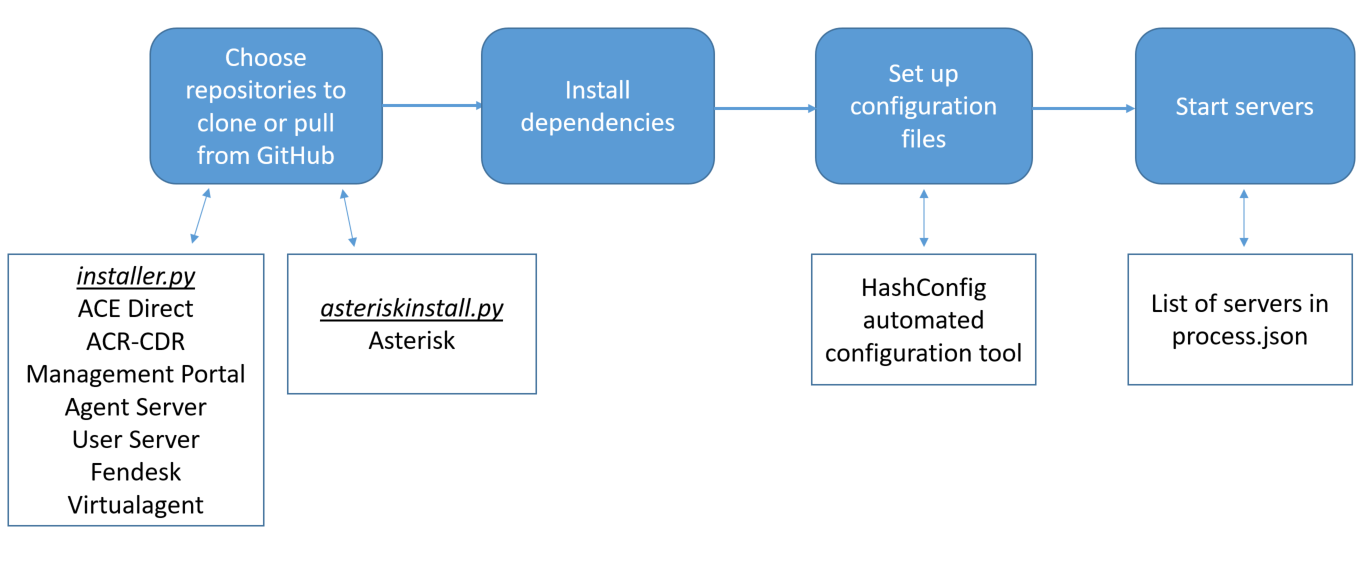
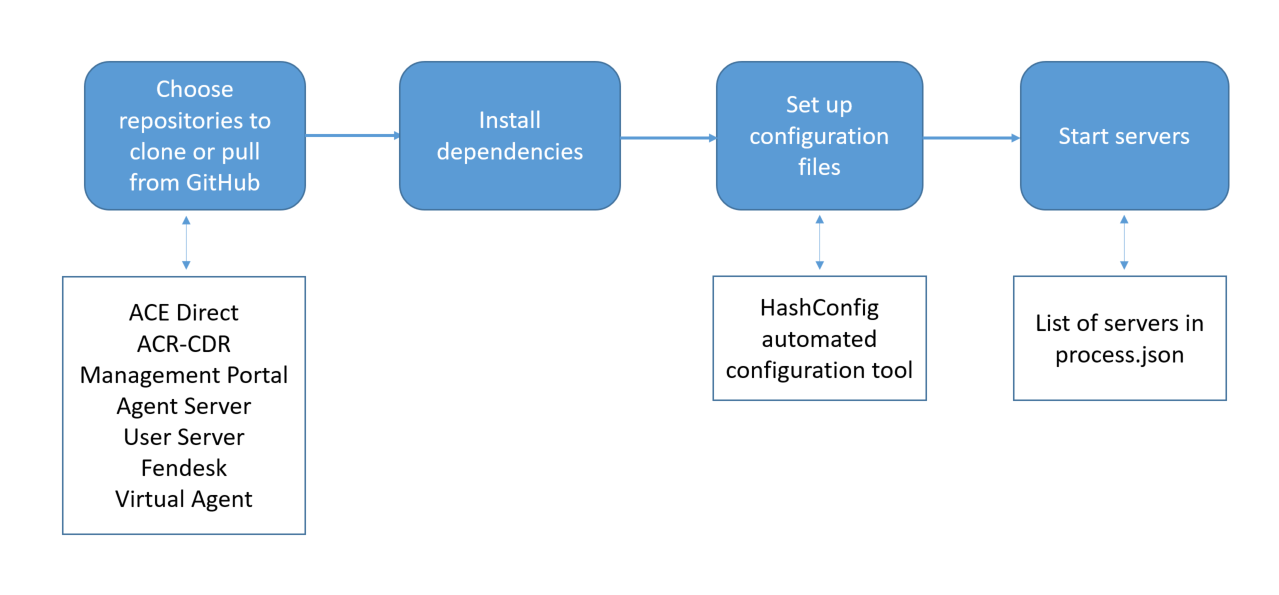
Removed the duplicate Asterisk install script

diff --git a/README.md b/README.md
@@ -1,17 +1,15 @@
-# Automated Installation Scripts
-This is the README.md file for the automated installation scripts for ACE Direct. The installation scripts 
-clone or pull the necessary repositories from GitHub. Then for each repository the scripts install packages 
-and their dependencies, set up the configuration files, and finally start their associated servers. The scripts 
-include an option to use HashConfig, an automated configuration and encoding tool, during the configuration 
+# Automated Installation Script
+This is the README.md file for the automated installation script for ACE Direct. The installation script 
+clones or pulls the necessary repositories from GitHub. Then for each repository the script installs packages 
+and their dependencies, sets up the configuration files, and finally starts their associated servers. The script 
+includes an option to use HashConfig, an automated configuration and encoding tool, during the configuration 
 process. The following diagram visually describes the installation script.
 
-![Flowchart describing the installation scripts.](autoinstalldiagram.png)
+![Flowchart describing the installation script.](autoinstalldiagram.png)
 
 ## Code Structure
 The script installer.py allows the user to install any of the following repositories in any order:
 ACE Direct, ACR-CDR, Management Portal, Aserver, Userver, Fendesk, and Virtualagent.
-
-The script asteriskinstall.py installs Asterisk.
 
 ## Prerequisites
 The installation scripts require the following:
@@ -24,13 +22,8 @@ The installation scripts require the following:
 
 * MySQL is installed on the user machine, and the user has access to the username and password.
 
-* The Asterisk installation script also requires that the public/private key pair 
-for Git must be added to /root/.ssh and their permissions must be 600. For more 
-information on generating and adding the keys, refer to [this link]
-(https://help.github.com/articles/connecting-to-github-with-ssh/)
 
-
-## Instructions for Use: installer.py
+## Instructions for Use
 1. Open the parent directory where the autoinstall repository will be placed; the home directory is suggested.
 
 2. Clone this repository. 
@@ -46,30 +39,3 @@ select the quick install option.
 
 5. For a one-click install, save the properly-configured, decoded configuration files in the /home/centos directory with the
 naming convention "config_<i>repository name</i>.json_TEMPLATE". Then choose the quick install option.
-
-
-## Instructions for Use: asteriskinstall.py
-1. To run the asteriskinstall.py script, open the shell as sudo with the command
-```sh
-sudo -i
-```
-
-2. After configuring the proxy, run the script using the command
-
-```sh
-python ./asteriskinstall.py
-```
-
-When prompted, enter values for the following options:
-
-* \<public_ip>: The external/public IP address of the Asterisk server
-
-* \<local_ip>: The private/local IP address of the Asterisk server
-
-* \<dial_in>: Dial-in number
-
-* \<stun_server>: STUN/TURN server address:port (we recommend building a dedicated STUN server, but a public STUN server can be used if desired)
-
-* \<public_key>: Public key for Asterisk server
-
-* \<crt_key>: Private key for Asterisk server 
